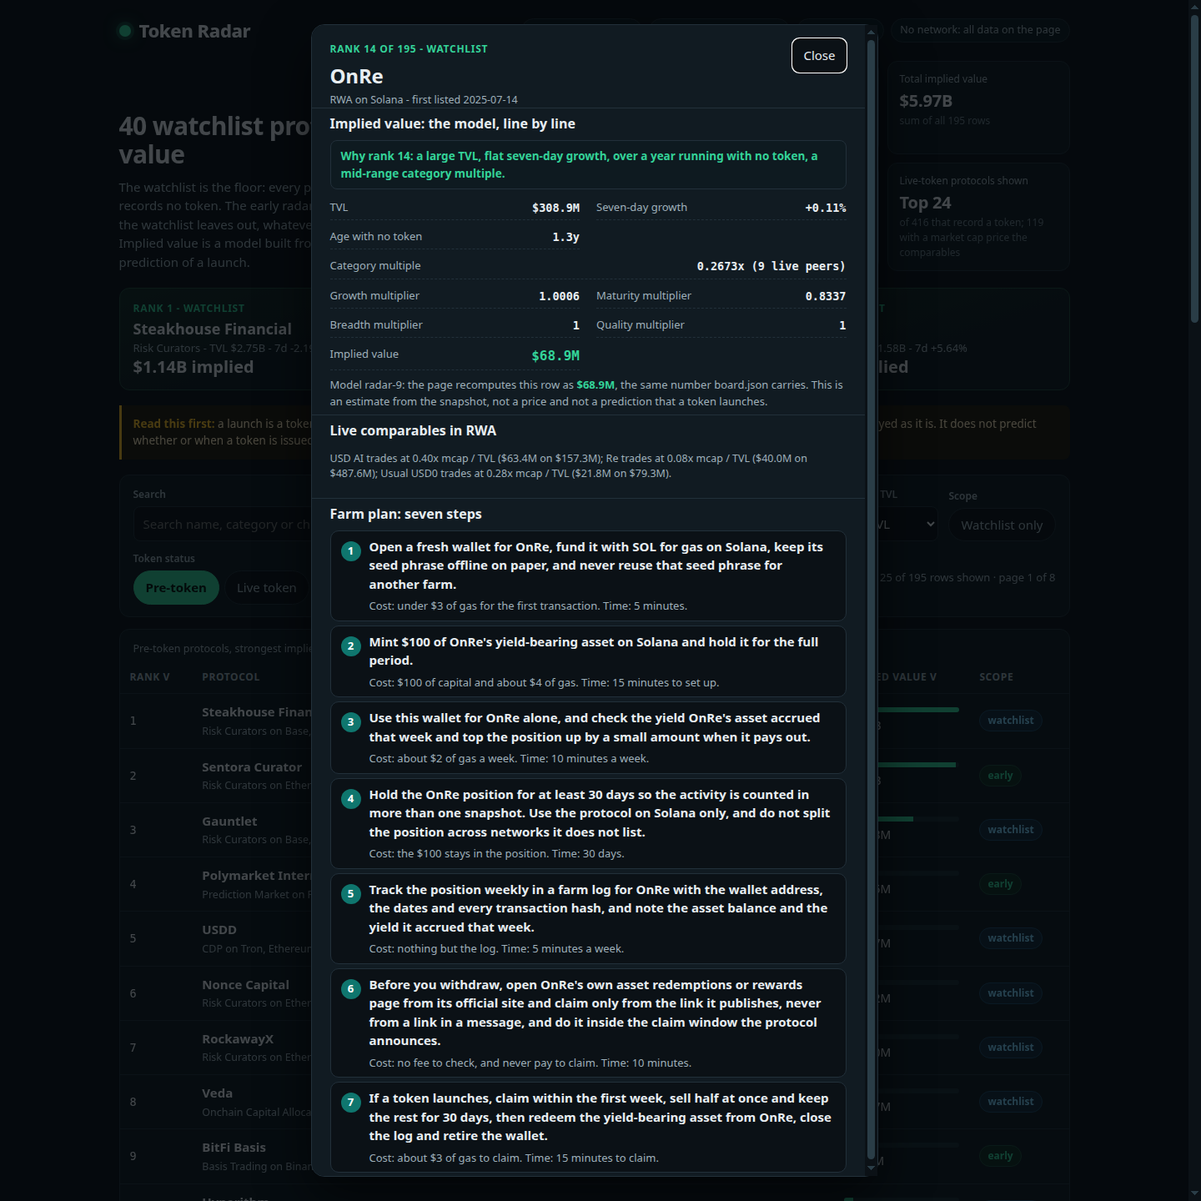
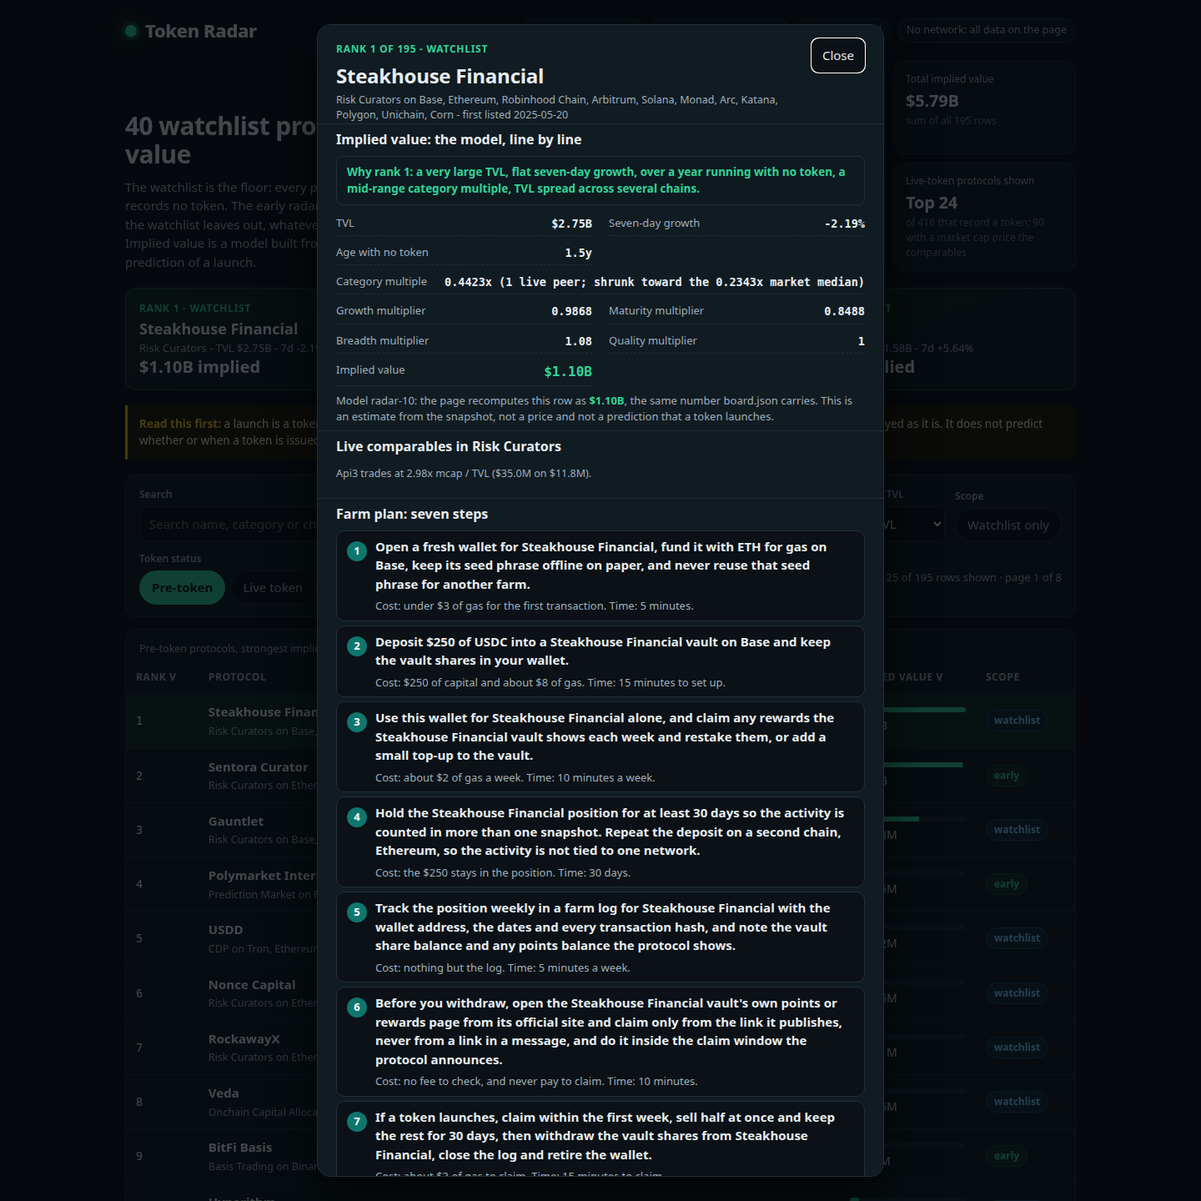
Token Radar radar-10: comparables exclude bridge/staking/wrapper tokens
The market median no longer counts the 29 bridge, liquid-staking,
liquid-restaking and wrapper protocols whose tokens the board itself
refuses to rank: a bridge token's market cap prices the bridge's
business, not the value locked in it, and a liquid-staking governance
token prices governance over the staked asset, not the asset itself.
Same ground the comparables already excluded exchange tokens on.
Comparable population 119 -> 90, market median 0.2460x -> 0.2343x,
total implied $5,966,387,481 -> $5,786,663,094 (-3.0%), 101 ranks move
by at most 4 places, top three unchanged. Saturn moves 27 -> 28;
numbers corrected in README and model comments, screenshots retaken.

diff --git a/lib/model.ts b/lib/model.ts
@@ -1,4 +1,4 @@
-// Token Radar's model (radar-9): one sealed snapshot in, one ranked board out.
+// Token Radar's model (radar-10): one sealed snapshot in, one ranked board out.
 //
 // The board covers every slug in the snapshot's watchlist (the floor, never a
 // ceiling) plus every other rankable pre-token protocol the watchlist leaves
@@ -12,7 +12,7 @@
 // floor, not a rankability ceiling: a $2.8B protocol the list leaves out
 // (Sentora Curator) is no worse a subject than a $49M one it names. One
 // watchlist slug is ranked although the early radar would leave it out:
-// Saturn, a Stablecoin Wrapper at rank 27, because a watchlist slug is
+// Saturn, a Stablecoin Wrapper at rank 28, because a watchlist slug is
 // always ranked; the dashboard states that carve-out where it states the
 // rule. The 147 pre-token protocols the board does not rank are counted by
 // exclusion in the dashboard's data, so the reader can see what was set
@@ -22,8 +22,8 @@
 // function applied to every row. No protocol name is ever special-cased.
 //
 //   comparable  = median(mcap_usd / tvl_usd) over the live-token protocols
-//                 in the same category, shrunk toward the whole market's
-//                 median in log space with a weight of 3 peers, then clamped
+//                 in the same category, shrunk toward the market median
+//                 in log space with a weight of 3 peers, then clamped
 //                 to [0.05, 0.80]:
 //                 exp((peers x ln(categoryMedian) + 3 x ln(marketMedian))
 //                     / (peers + 3)).
@@ -34,10 +34,12 @@
 //                 A category with one live peer still never prices at its
 //                 peer's ratio: the market weight pulls it most of the way
 //                 back, and the cap bounds the rest. Categories with no live
-//                 peer use the whole market's median outright. Exchange tokens are left
-//                 out of the comparable population: an exchange token's
-//                 market cap prices the exchange's business, not the TVL
-//                 the snapshot records for it.
+//                 peer use the market median outright. The market median is
+//                 the median over the live-token protocols in the categories
+//                 the board ranks: exchange, bridge, liquid staking,
+//                 liquid restaking and wrapper tokens are left out of the
+//                 comparable population, because their market caps price a
+//                 business other than the TVL the snapshot records for them.
 //   base        = tvl_usd x comparable
 //   growthMult  = 1 + clamp(change_7d, -40, 80) / 100 x 0.6
 //                 (change_7d unreported: treated as flat, see quality below)
@@ -120,7 +122,7 @@ export const MODEL: ModelConstants = {
 };
 
 /** The model's version label: the dashboard names it. */
-export const MODEL_VERSION = 'radar-9';
+export const MODEL_VERSION = 'radar-10';
 
 /** How many live-token protocols the Live token view carries, by market cap. */
 export const LIVE_ROWS = 24;
@@ -260,9 +262,22 @@ export function isPreToken(p: SnapshotProtocol): boolean {
   return p.mcap_usd === null && p.gecko_id === null && p.symbol === null;
 }
 
+/** Categories that are a bridge, a staking wrapper or an exchange, never a launch of their own. */
+const EXCLUDED_CATEGORIES = new Set(['Bridge', 'Canonical Bridge', 'Liquid Staking', 'Liquid Restaking', 'Restaked BTC', 'CEX']);
+
+/** Category words that mark a bridge or a wrapper whatever the exact label: a "Cross Chain Bridge" is a bridge and a "Stablecoin Wrapper" is a wrapper. */
+const EXCLUDED_CATEGORY_WORDS = ['bridge', 'wrapper'];
+
+/** Whether a live-token protocol's category is one the board never ranks: its token prices a wrapper or an exchange, not a launch. */
+function isExcludedCategory(p: SnapshotProtocol): boolean {
+  if (p.category === null) return false;
+  if (EXCLUDED_CATEGORIES.has(p.category)) return true;
+  return EXCLUDED_CATEGORY_WORDS.some((w) => p.category!.toLowerCase().includes(w));
+}
+
 /**
  * The category comparables: for each category, the median market-cap-to-TVL
- * ratio of the live-token protocols in it, shrunk toward the whole market's
+ * ratio of the live-token protocols in it, shrunk toward the market
  * median in log space with a weight of `shrink_peers` peers, then clamped to
  * the model's band. Ratios multiply, so the shrinkage averages logarithms:
  * exp((peers x ln(categoryMedian) + 3 x ln(marketMedian)) / (peers + 3)).
@@ -272,29 +287,39 @@ export function isPreToken(p: SnapshotProtocol): boolean {
  * (12.16x), Decentralized AI (2.06x), NFT Marketplace (2.00x), Options
  * (1.51x), Prediction Market (400.20x) and Risk Curators (2.97x) all priced
  * at one identical 0.3845x, 40 board rows on a single number. In log space
- * they price at 0.4607x, 0.6523x, 0.4185x, 0.4155x, 0.3875x, the 0.80 cap
- * and 0.4587x: each from its own peer, still pulled most of the way to the
+ * they price at 0.4442x, 0.6289x, 0.4035x, 0.4006x, 0.3736x, the 0.80 cap
+ * and 0.4423x: each from its own peer, still pulled most of the way to the
  * market by the 3-peer weight. The same clamp erased the cheap end too: a
  * category whose peers trade at 0.002x was lifted to 0.1676x by the floor
  * before shrinking, so Staking Pool (SSV at 0.00x on $10.2B of TVL) priced
  * as if it were a mid-market category; in log space it prices at the 0.05
  * floor. A single peer still never sets its own price: Risk Curators'
- * 2.97x peer pulls the multiple to 0.4587x, not to 2.97x, and an extreme
+ * 2.97x peer pulls the multiple to 0.4423x, not to 2.97x, and an extreme
  * peer still lands at the cap, which is the model's bound. Categories with
- * no live peer use the whole market's median outright. Exchange tokens are
- * left out of the population entirely: an exchange token's market cap prices
+ * no live peer use the market median outright. Exchange tokens are left
+ * out of the population entirely: an exchange token's market cap prices
  * the exchange's business, not the TVL the snapshot records for it (Nexo's
- * ratio is 69x on $10M of TVL, OKX's is 0.07x on $26B), so the comparables
- * are the live-token DeFi protocols with a market cap above zero, the same
- * population the dashboard names when it says how many protocols price the
- * comparables. The map is computed from this snapshot alone, at run time,
- * never hard-coded.
+ * ratio is 69x on $10M of TVL, OKX's is 0.07x on $26B). Bridge, liquid
+ * staking, liquid restaking and wrapper tokens are left out for the same
+ * reason, and it is the same rule the board applies to the ranking itself:
+ * a bridge token's market cap prices the bridge's business, not the value
+ * locked in it, and a liquid-staking governance token prices governance
+ * over the staked asset, not the asset itself, so their ratios measure a
+ * different object than a lender's or a DEX's. On this snapshot the 29
+ * such protocols sit at a median ratio of 0.3167x against the market's
+ * 0.2460x, nine of them below 0.05x and nine above 1x, so leaving them in
+ * lifts the market median by about 5% on a population the board itself
+ * refuses to rank. The comparables are therefore the live-token DeFi
+ * protocols with a market cap above zero in the categories the board
+ * ranks, the same population the dashboard names when it says how many
+ * protocols price the comparables. The map is computed from this snapshot
+ * alone, at run time, never hard-coded.
  */
 export function categoryMultiples(snapshot: Snapshot, model: ModelConstants): { byCategory: Map<string, { multiple: number; raw: number; peers: number }>; market: number } {
   const byCategory = new Map<string, number[]>();
   const all: number[] = [];
   for (const p of snapshot.protocols) {
-    if (isPreToken(p) || p.category === 'CEX' || p.mcap_usd === null || p.tvl_usd <= 0) continue;
+    if (isPreToken(p) || isExcludedCategory(p) || p.mcap_usd === null || p.tvl_usd <= 0) continue;
     const ratio = p.mcap_usd / p.tvl_usd;
     if (!Number.isFinite(ratio) || ratio <= 0) continue;
     all.push(ratio);
@@ -357,17 +382,10 @@ const WRAPPED_WORD = /\b(wrapped|staked|staking|restaked|restaking)\b/i;
 /** Exchange names whose products are the exchange's own, not a pre-token protocol. */
 const EXCHANGE_PREFIX = /^(binance|coinbase|bybit|kraken|bitget|okx|bitfinex|gemini)\b/i;
 
-/** Categories that are a bridge, a staking wrapper or an exchange, never a launch of their own. */
-const EXCLUDED_CATEGORIES = new Set(['Bridge', 'Canonical Bridge', 'Liquid Staking', 'Liquid Restaking', 'Restaked BTC', 'CEX']);
-
-/** Category words that mark a bridge or a wrapper whatever the exact label: a "Cross Chain Bridge" is a bridge and a "Stablecoin Wrapper" is a wrapper. */
-const EXCLUDED_CATEGORY_WORDS = ['bridge', 'wrapper'];
-
 /** Whether a protocol is one the board may rank: pre-token, and not a wrapped, staked, restaked, bridged, versioned or exchange product. */
 export function isRankable(p: SnapshotProtocol): boolean {
   if (!isPreToken(p)) return false;
-  if (p.category !== null && EXCLUDED_CATEGORIES.has(p.category)) return false;
-  if (p.category !== null && EXCLUDED_CATEGORY_WORDS.some((w) => p.category!.toLowerCase().includes(w))) return false;
+  if (isExcludedCategory(p)) return false;
   if (VERSIONED.test(p.name)) return false;
   if (WRAPPED_WORD.test(p.name)) return false;
   if (EXCHANGE_PREFIX.test(p.name)) return false;
@@ -380,7 +398,7 @@ export function isRankable(p: SnapshotProtocol): boolean {
  * watchlist rule itself puts them (an exchange first, then a bridge, then a
  * staking wrapper, then a versioned pool, then a wrapped or staked name).
  * The watchlist is the floor, so this never describes a watchlist protocol:
- * one watchlist slug, Saturn (a Stablecoin Wrapper), is ranked at 27 even
+ * one watchlist slug, Saturn (a Stablecoin Wrapper), is ranked at 28 even
  * though the wrapper rule would leave it out, because a watchlist slug is
  * always ranked. The dashboard states that carve-out where it states the
  * rule, so the board and the rule it claims can never be caught disagreeing.
@@ -832,7 +850,7 @@ export function buildRadar(snapshot: Snapshot, model: ModelConstants = MODEL): {
     peer_samples: liveSamples(snapshot),
     excluded: excludedBreakdown(snapshot, board),
     live_total: snapshot.protocols.filter((p) => !isPreToken(p)).length,
-    live_priced: snapshot.protocols.filter((p) => !isPreToken(p) && p.category !== 'CEX' && p.mcap_usd !== null && p.mcap_usd > 0 && p.tvl_usd > 0).length,
+    live_priced: snapshot.protocols.filter((p) => !isPreToken(p) && !isExcludedCategory(p) && p.mcap_usd !== null && p.mcap_usd > 0 && p.tvl_usd > 0).length,
   };
   return { board, radar };
 }

diff --git a/dashboard/app.js b/dashboard/app.js
@@ -1,4 +1,4 @@
-// Token Radar's dashboard (radar-9). It reads window.RADAR (written beside
+// Token Radar's dashboard (radar-10). It reads window.RADAR (written beside
 // dashboard/ by main.ts from the same board.json) and renders the ranked
 // board, the filters, a per-protocol detail view with the model's own
 // breakdown and the protocol's farm plan, and the live-token set kept apart.
@@ -403,7 +403,7 @@
     var saturnText = saturn ? ' One watchlist protocol is ranked although the wrapper rule would leave it out: Saturn, a Stablecoin Wrapper, sits at rank ' + saturn.rank + ' because the watchlist is the floor and a watchlist slug is always ranked.' : '';
     return el('section', { class: 'panel model' },
       el('h2', { text: 'How implied value is computed' }),
-      el('p', { class: 'sub', text: 'Every row is scored by one function of the snapshot figures. No protocol name is special-cased, and no row is hand-picked. The comparable is the median market-cap-to-TVL ratio of the live-token protocols in the same category, computed from this snapshot at run time, then shrunk toward the whole market median in log space with a weight of ' + m.shrink_peers + ' peers: ratios multiply, so the shrinkage averages logarithms, and the raw median is never clamped before shrinking. A category with one live peer never prices at its peer\'s ratio, and a category with no live peer uses the market median outright.' }),
+      el('p', { class: 'sub', text: 'Every row is scored by one function of the snapshot figures. No protocol name is special-cased, and no row is hand-picked. The comparable is the median market-cap-to-TVL ratio of the live-token protocols in the same category, computed from this snapshot at run time, then shrunk toward the market median in log space with a weight of ' + m.shrink_peers + ' peers: ratios multiply, so the shrinkage averages logarithms, and the raw median is never clamped before shrinking. A category with one live peer never prices at its peer\'s ratio, and a category with no live peer uses the market median outright.' }),
       el('p', { class: 'sub', text: 'The shrinkage is not a guess at a weight: ' + thin + ' of the ' + thinTotal + ' categories priced here have fewer than three live peers, so most multiples would rest on one or two protocols without it. Shrinking in log space matters because the old arithmetic shrink clamped the raw median first: seven single-peer categories, from Options at 1.51x to Prediction Market at 400.20x, all priced at one identical multiple, and a category whose peers trade at 0.002x was lifted to the market by the floor. Now each prices from its own peer, still pulled most of the way to the market, and still capped. With no shrinkage the Risk Curators rows would all price at the 0.80 cap on a single peer; shrunk, they price at ' + (DATA.multiples['Risk Curators'] === undefined ? 'the market median' : DATA.multiples['Risk Curators'].toFixed(4) + 'x') + '.' }),
       el('div', { class: 'formula' },
         'multiple = exp((peers x ln(categoryMedian) + ' + m.shrink_peers + ' x ln(marketMedian)) / (peers + ' + m.shrink_peers + ')), clamped to [' + m.multiple_floor + ', ' + m.multiple_cap + ']'
@@ -411,7 +411,7 @@
       el('div', { class: 'formula' },
         'implied = round( tvl_usd x multiple x (1 + clamp(change_7d, ' + m.growth_floor + ', ' + m.growth_cap + ') / 100 x ' + m.growth_weight + ') x (' + m.maturity_floor + ' + min(age_days, ' + m.maturity_days + ') / ' + m.maturity_days + ' x ' + m.maturity_range + ') x (1 + ' + m.breadth_step + ' x min(chains - 1, ' + m.breadth_max_chains + ')) x quality )'
       ),
-      el('p', { class: 'sub', text: 'TVL and seven-day growth come from the snapshot. Age is the time since the protocol was first listed, the record of how long it has run with no token; an unlisted age uses ' + m.unknown_age_days + ' days. Quality is ' + m.unknown_growth_discount + ' when seven-day growth is unreported and 1.00 otherwise: missing evidence is a small discount, never a free pass. Wrapped, staked, restaked, bridged and exchange products are left out of the early radar: they are a token that already trades, in another wrapper. ' + DATA.excluded.total + ' pre-token protocols are set aside that way (' + excludedText + ').' + saturnText + ' "Records no token" is what the snapshot says; it is not proof a protocol has no token.' })
+      el('p', { class: 'sub', text: 'TVL and seven-day growth come from the snapshot. Age is the time since the protocol was first listed, the record of how long it has run with no token; an unlisted age uses ' + m.unknown_age_days + ' days. Quality is ' + m.unknown_growth_discount + ' when seven-day growth is unreported and 1.00 otherwise: missing evidence is a small discount, never a free pass. Wrapped, staked, restaked, bridged and exchange products are left out of the early radar: they are a token that already trades, in another wrapper. Their tokens are left out of the comparables too: a bridge token market cap prices the bridge business, not the value locked in it, so the market median is the median of the live-token protocols in the categories the board ranks. ' + DATA.excluded.total + ' pre-token protocols are set aside that way (' + excludedText + ').' + saturnText + ' "Records no token" is what the snapshot says; it is not proof a protocol has no token.' })
     );
   }
 
@@ -440,7 +440,7 @@
     });
     return el('section', { class: 'panel peers' },
       el('h2', { text: 'Category comparables' }),
-      el('p', { class: 'sub', text: 'What the market already pays per dollar of TVL, by category. The whole market median is ' + DATA.market_multiple.toFixed(4) + 'x; a category with fewer than three live peers is shrunk toward it, so one peer never sets a price on its own.' }),
+      el('p', { class: 'sub', text: 'What the market already pays per dollar of TVL, by category. The market median is ' + DATA.market_multiple.toFixed(4) + 'x; a category with fewer than three live peers is shrunk toward it, so one peer never sets a price on its own.' }),
       el('div', { class: 'table-wrap' },
         el('table', null,
           el('thead', null, el('tr', null, el('th', { scope: 'col', text: 'Category' }), el('th', { scope: 'col', text: 'Multiple used' }), el('th', { scope: 'col', text: 'Live peers' }), el('th', { scope: 'col', text: 'Raw median' }), el('th', { scope: 'col', text: 'How it is read' }))),

diff --git a/main.ts b/main.ts
@@ -1,4 +1,4 @@
-// Token Radar (radar-9): the entry program, Node 22, standard library only.
+// Token Radar (radar-10): the entry program, Node 22, standard library only.
 //
 // It reads the sealed snapshot from /input/snapshot.json (or --input
 // <file|dir>), scores every rankable pre-token protocol with the model in

diff --git a/README.md b/README.md
@@ -6,7 +6,30 @@ staked or bridged product of one that trades, ranks them by what their launch
 would be worth, and hands in a web dashboard with the board, a detail view
 for every protocol, filters, and a farm plan for each row.
 
-## The model (radar-9)
+## The model (radar-10)
+
+Radar-10 keeps radar-9's formula and changes one thing about what prices it:
+the market median no longer counts the 29 bridge, liquid-staking, liquid-restaking
+and wrapper protocols whose tokens the board itself refuses to rank. The board
+excludes them because they are a token that already trades in another wrapper, and
+the comparables already excluded exchange tokens on the same ground, that their
+market cap prices the exchange's business rather than the TVL the snapshot records.
+A bridge token's market cap prices the bridge's business, not the value locked in
+it, and a liquid-staking governance token prices governance over the staked asset,
+not the asset itself, so their ratios measure a different object than a lender's or
+a DEX's. On this snapshot the 29 sit at a median ratio of 0.3167x against the
+market's 0.2460x, nine of them below 0.05x and nine above 1x, so counting them lifted
+the market median by about 5%. The comparable population is now the 90 live-token
+protocols with a market cap above zero in the categories the board ranks, and the
+market median is 0.2343x instead of 0.2460x. The board's total implied value falls
+from $5,966,387,481 to $5,786,663,094 (-3.0%); 190 of the 195 rows change value,
+101 change rank by at most 4 places, and the top three are unchanged
+(Steakhouse Financial $1,101,885,749, Sentora Curator $1,064,066,994, Gauntlet
+$661,326,006), so the change is made for consistency, not for a different answer:
+the median-population choice moves no rank more than four places. Saturn moves
+one place with the rest, from rank 27 to rank 28, and the number is corrected in
+the README and the model's comments; the dashboard already names the rank from
+the board, never from a written number.
 
 Radar-9 keeps radar-8's formula and every implied value, and fixes two
 things a reader could catch it on. First, Saturn's rank: the README and the
@@ -33,7 +56,7 @@ multiple line and in the why-sentence: Prediction Market's raw 400.20x
 peer prices at the 0.80 cap, and Staking Pool's raw 0.002x peer prices at
 the 0.05 floor, and neither is left for the reader to infer from the two
 numbers side by side. The cap stays the guard for the Prediction Market
-case: a $25M peer-TVL floor would throw out 58 of the 119 priced peers
+case: a $25M peer-TVL floor would throw out 43 of the 90 priced peers
 (including the only peer of Risk Curators, Chain, Options and NFT
 Marketplace), and winsorizing the raw median would collapse the rich
 single-peer categories back to one number, the flaw radar-7 fixed; the
@@ -45,7 +68,7 @@ One function scores every row, from the snapshot's own figures only:
 multiple = exp((peers x ln(categoryMedian) + 3 x ln(marketMedian)) / (peers + 3)),
   clamped to [0.05, 0.80]; categoryMedian is the median market-cap-to-TVL
   ratio of the live-token protocols in the same category, marketMedian the
-  whole market's median
+  median over the live-token protocols in the categories the board ranks
 implied = round( tvl_usd x multiple
   x (1 + clamp(change_7d, -40, 80) / 100 x 0.6)
   x (0.70 + min(age_days, 1095) / 1095 x 0.30)
@@ -61,18 +84,18 @@ between rich single-peer categories: Chain (3.03x), Collateral Management
 (12.16x), Decentralized AI (2.06x), NFT Marketplace (2.00x), Options
 (1.51x), Prediction Market (400.20x) and Risk Curators (2.97x) all priced at
 one identical 0.3845x, 40 board rows on a single number. In log space they
-price at 0.4607x, 0.6523x, 0.4185x, 0.4155x, 0.3875x, the 0.80 cap and
-0.4587x: each from its own peer, still pulled most of the way to the market
+price at 0.4442x, 0.6289x, 0.4035x, 0.4006x, 0.3736x, the 0.80 cap and
+0.4423x: each from its own peer, still pulled most of the way to the market
 by the 3-peer weight, and still capped. The same clamp erased the cheap end
 too: a category whose peers trade at 0.002x was lifted to 0.1676x by the
 floor before shrinking, so Staking Pool (SSV at 0.00x on $10.2B of TVL)
 priced as if it were a mid-market category; in log space it prices at the
 0.05 floor. A single peer still never sets its own price: Risk Curators'
-2.97x peer pulls the multiple to 0.4587x, not to 2.97x, and an extreme peer
+2.97x peer pulls the multiple to 0.4423x, not to 2.97x, and an extreme peer
 still lands at the cap, which is the model's bound. On this snapshot the
 Risk Curators median comes from a single live peer (Api3, at 2.98x mcap/TVL),
 so without shrinkage all 34 Risk Curator rows would price at the 0.80 cap;
-shrunk in log space, they price at 0.4587x. The multiple is rounded to four decimals before
+shrunk in log space, they price at 0.4423x. The multiple is rounded to four decimals before
 it is used, so the dashboard's recompute of a row matches board.json exactly.
 Age is days since first listing, the record of how long a protocol has run
 with no token. `quality` is 0.97 when seven-day growth is unreported and 1.00
@@ -91,12 +114,12 @@ not rank are counted by exclusion on the dashboard (52 exchanges, 39 bridges,
 38 liquid staking / restaking products, 11 versioned pools, 6 wrapped / staked
 names, 1 stablecoin wrapper), so the reader can see what was set aside and
 why. One watchlist protocol is ranked although the early-radar wrapper rule
-would leave it out: Saturn, a Stablecoin Wrapper, sits at rank 27, because a
+would leave it out: Saturn, a Stablecoin Wrapper, sits at rank 28, because a
 watchlist slug is always ranked. The Live token view shows the 24 biggest
 live-token protocols by market cap, of 416 that record a token; the
-comparables are priced from the 119 of those with a market cap above zero,
-exchange tokens left out. The
-shrinkage is evidence-driven, not a guessed weight: 33 of the 46 categories
+comparables are priced from the 90 of those with a market cap above zero,
+exchange, bridge, liquid-staking, liquid-restaking and wrapper tokens left out. The
+shrinkage is evidence-driven, not a guessed weight: 32 of the 41 categories
 priced have fewer than three live peers, so most multiples would rest on
 one or two protocols without it. Live-token protocols are set aside and
 shown with their market caps. Farm plans are seven steps each, derived from
@@ -111,7 +134,7 @@ seven steps are distinct on all 195 rows: no step falls back to a generic
 line. Exchange tokens are left out of the comparables and out of the detail
 views' peer samples, and a protocol with a $0 market cap never appears as a
 peer: the comparables are priced from live-token DeFi protocols with a
-market cap above zero, the same 119 the dashboard counts. Every detail view also
+market cap above zero, the same 90 the dashboard counts. Every detail view also
 says, in one sentence, why that row sits where it does: size, momentum,
 seasoning, category and the quality of the evidence behind it. The Live token
 view answers the same search, category, chain and TVL filters as the board,
